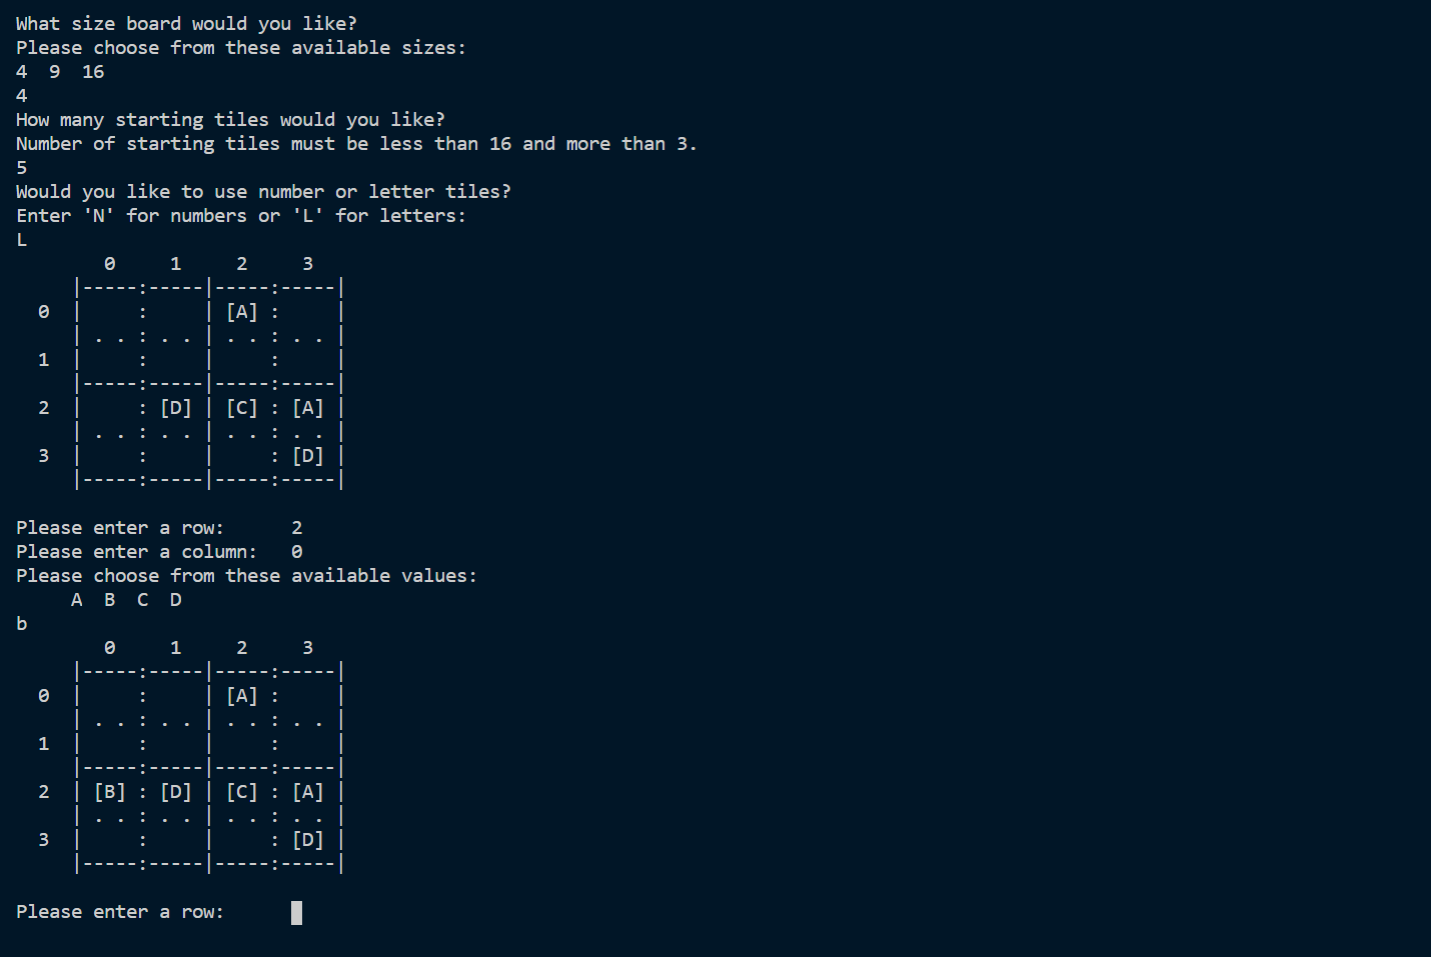
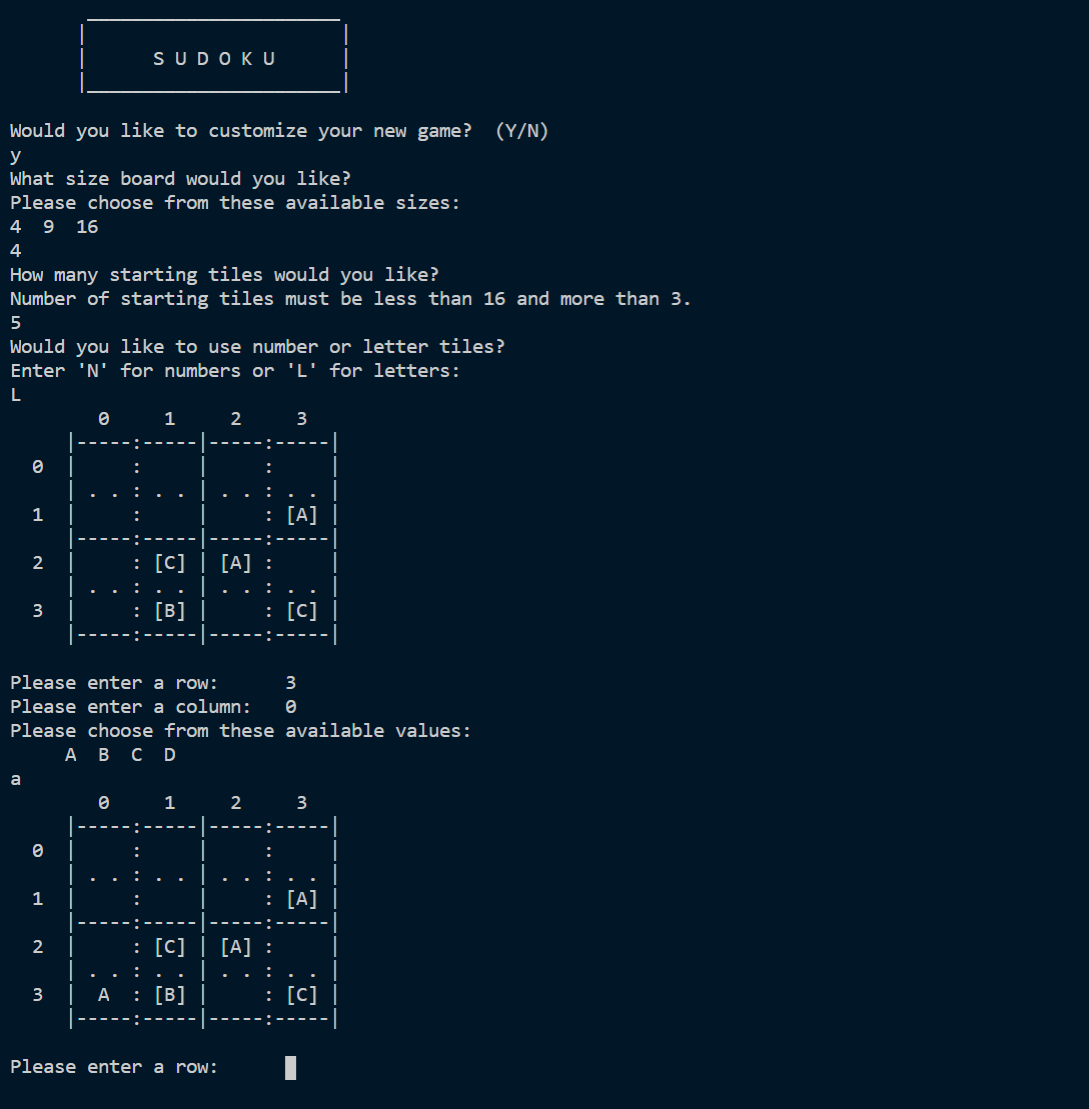
Fixed starting pieces on printed board, updated docs

Changed region(s): [[0.0, 0.0, 0.6244, 0.9697], [0.0, 0.697, 0.0624, 0.7273], [0.2498, 0.9394, 0.281, 0.9697]]

diff --git a/sudoku.py b/sudoku.py
@@ -142,10 +142,16 @@ class Sudoku:
         self.size = self.default_size
         self.how_many_start_tiles = self.default_start_counts[self.size]
         self.tile_set = self.default_tile_set
+
+        # Print the title for game
+        self.print_title()
+
         # Allow player to change defaults
         self.customize_new_game()
+
         # Make your set of tiles
         self.tiles = self.make_tile_set()
+
         # Determine correct zone size
         self.zone_size = self.valid_sizes[self.size]
 
@@ -258,7 +264,7 @@ class Sudoku:
                 if board[row][c] is not None:
                     tile = board[row][c]
                     # If a starting tile
-                    if self.solution_board[row][c] is not None:
+                    if self.starting_board[row][c] is not None:
                         out += (' ' +
                                 starting_tile_emp_left +
                                 tile +
@@ -282,6 +288,22 @@ class Sudoku:
         out += thick_vert + '\n'
         print(out)
         return out
+
+    def print_title(self) -> Text:
+        """
+        Print a title for a new game.
+        """
+        sp_6 = ' ' * 6
+        sp_7 = ' ' * 7
+        sp_23 = ' ' * 23
+        title = 'S U D O K U'
+        vert = '|'
+        horz = '_' * 23
+        print(sp_7 + horz)
+        print(sp_6 + vert + sp_23 + vert)
+        print(sp_6 + vert + sp_6 + title + sp_6 + vert)
+        print(sp_6 + vert + horz + vert)
+        print()
 
     def get_zone_order(self) -> List[Tuple[int, int]]:
         """
@@ -558,9 +580,7 @@ class Sudoku:
         and tiles, make valid moves, and once the board
         is filled, check if board is solved.
         """
-        # print('New game!')
-        # print('Enter \'RESET\' at any point to reset game to starting state.')
-        # how would make reset opt?
+        # (option to reset at any point?)
         solved = False
         while not solved:
             # Print the playing board

diff --git a/README.md b/README.md
@@ -21,11 +21,11 @@ By default, the "tiles" used are the numbers 1 through n<sup>2</sup>, but player
 The number of starting tiles can be changed, as long the number of starting tiles is more than a required minimum, and less than the total number of cells.
 
 
-## How to Run
+## How To Run
 
-Run this program with Python3.  This program will not run in Python2.
+Run this program with Python 3.  This program will not run in Python 2.
 
-Run this program by running the file `sudoku.py` via the command line however you normally run Python3 files, i.e.
+Run this program by running the file `sudoku.py` via the command line however you normally run Python 3 files, i.e.
 
     python3 sudoku.py
 
@@ -33,12 +33,12 @@ or, if on Windows,
 
     py -3 sudoku.py
 
-or, if Python3 is your default version of Python, simply
+or, if Python 3 is your default version of Python, simply
 
     python sudoku.py
 
 
-## How to Play
+## How To Play
 
 Upon starting a game, you may choose to use the default game options (9 x 9 board, 17 starting tiles, number tiles), or you may customize your game by selecting a board size (4 x 4, 9 x 9, or 16 x 16), number of starting clue tiles, and tile set (numbers or letters).
 
